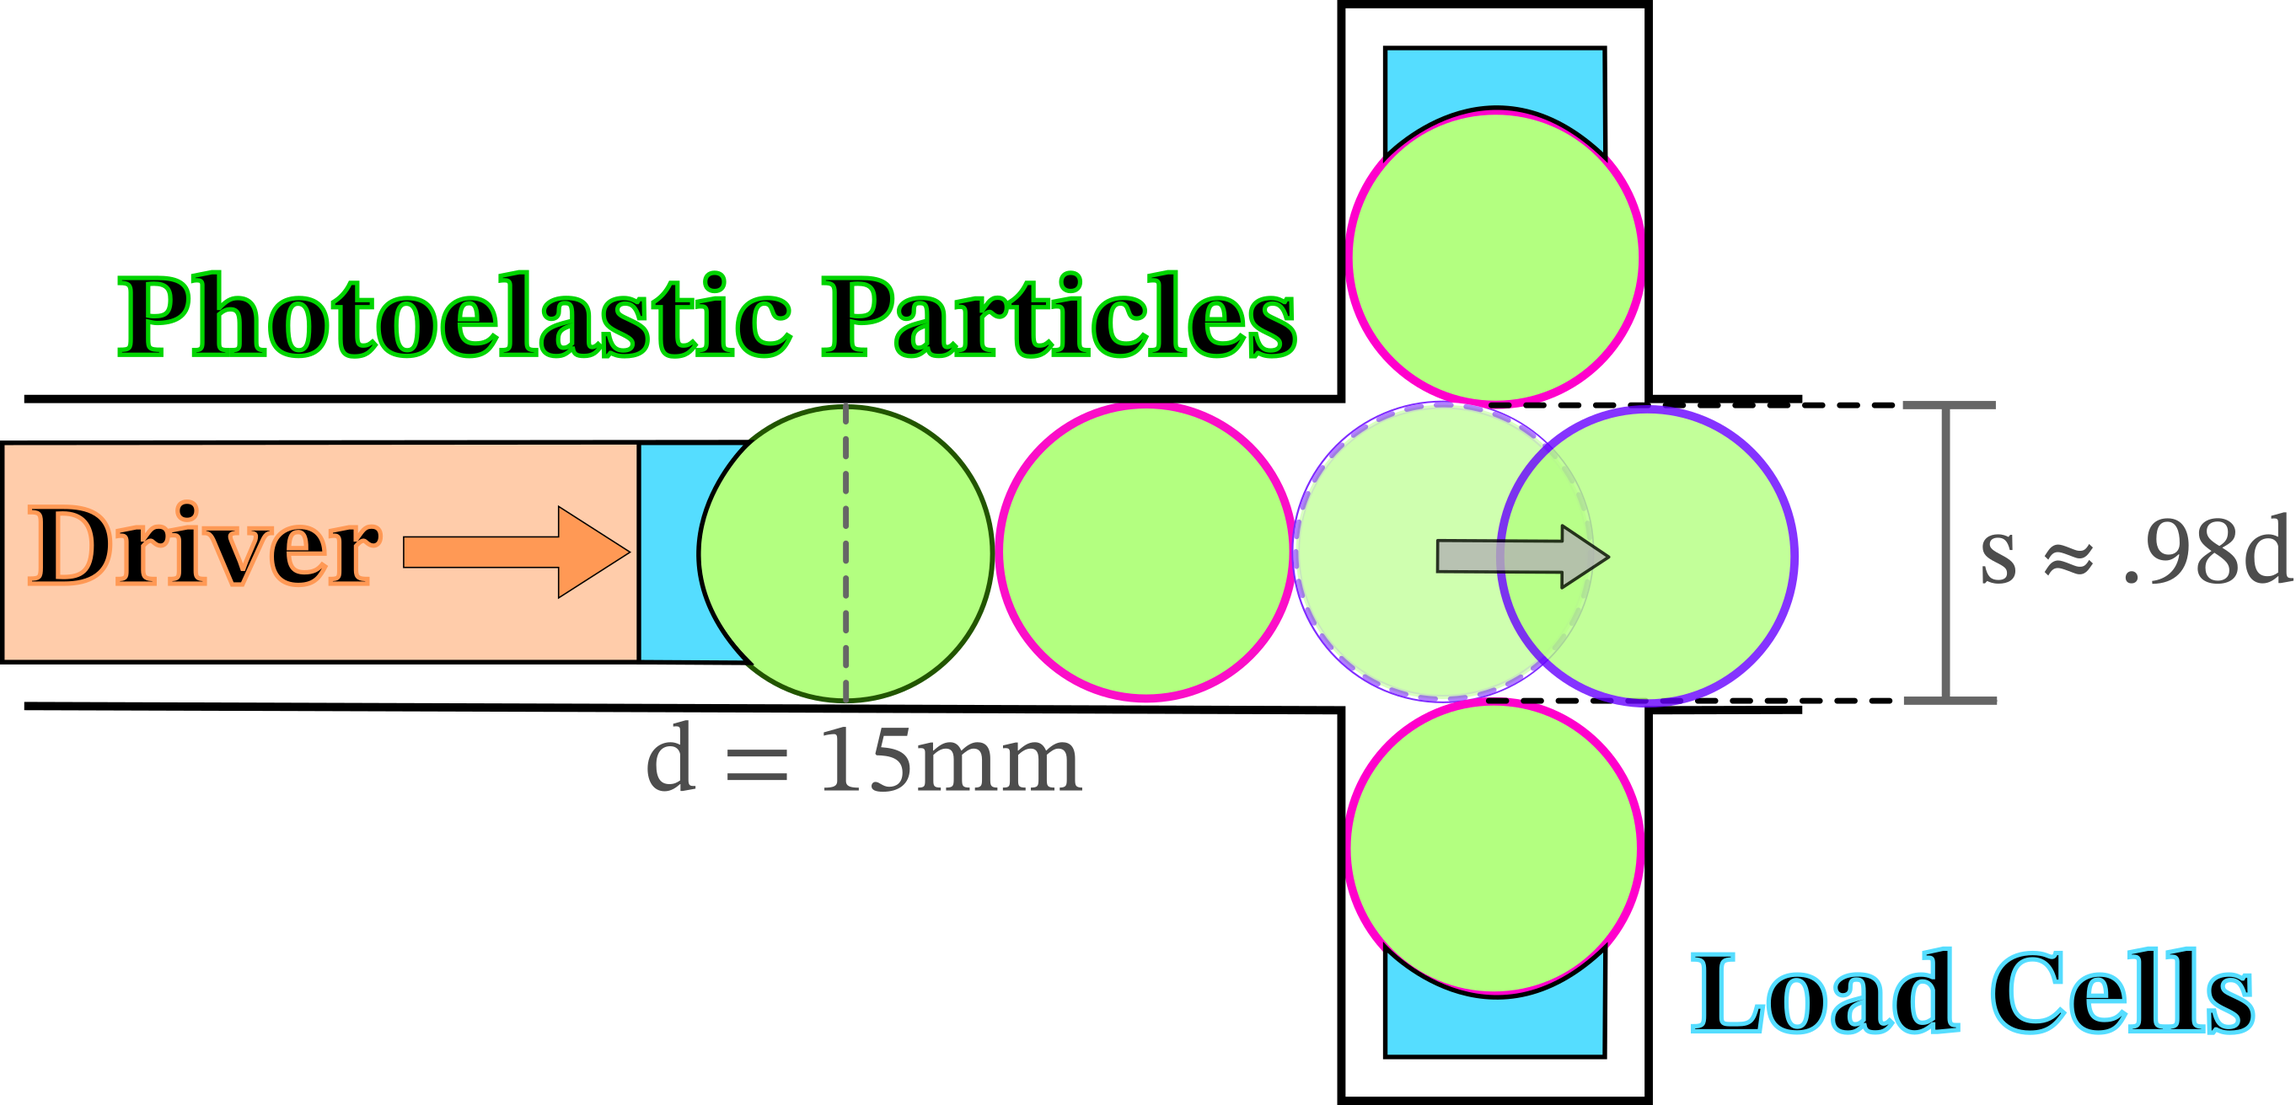
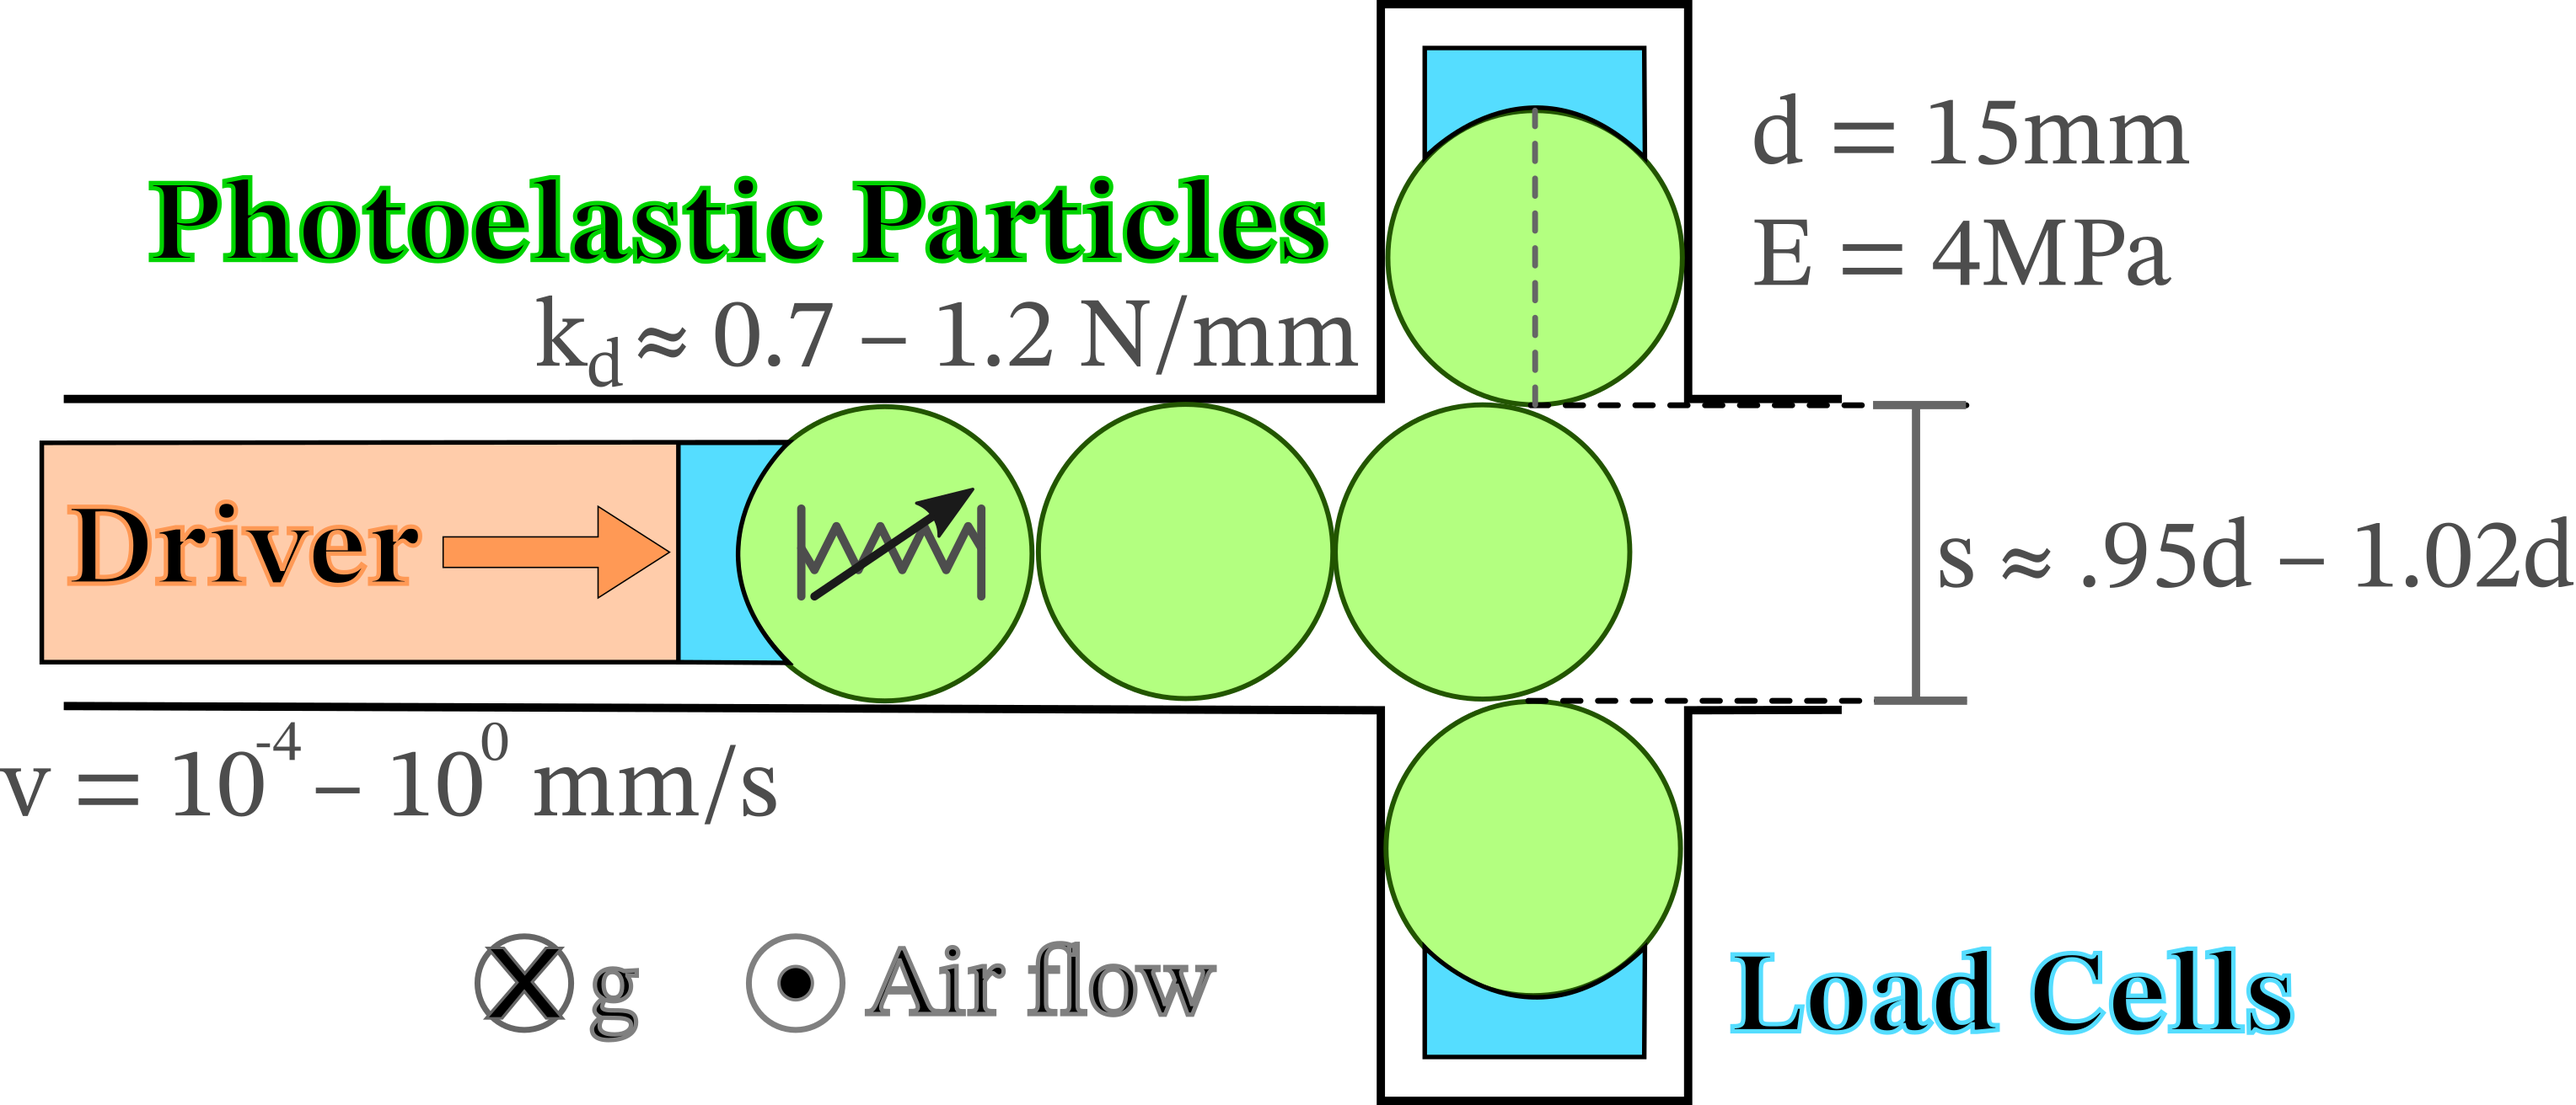
Updated poster page

diff --git a/SPF.html b/SPF.html
@@ -30,14 +30,14 @@ li:not(:last-child) {margin-bottom: 2%;}
 <!-- Header -->
 <header class="w3-container w3-pale-blue w3-center" style="padding:96px 16px">
   <p class="w3-xlarge">Howdy! We're investigating</p>
-  <h1 class="w3-margin w3-jumbo">Friction and Failure<h1>
+  <h1 class="w3-margin w3-jumbo">Local Friction and Failure<h1>
 </header>
 
 <div class="w3-row-padding w3-container">
   <div class="w3-content w3-center">
-      <h5 class="w3-padding-8">Jack Featherstone and Karen Daniels</h5>
+      <h5 class="w3-padding-8">Jack Featherstone (<a href="mailto:jdfeathe@ncsu.edu">jdfeathe@ncsu.edu</a>) and Karen Daniels</h5>
       <h5 class="w3-padding-8">Department of Physics, NC State University</h5>
-      <h5 class="w3-padding-16">Triangle Soft Matter Workshop 2022, Duke University</h5>
+      <h5 class="w3-padding-16">Granular Matter 2022, Stonehill College</h5>
   </div>
 </div>
 
@@ -45,7 +45,7 @@ li:not(:last-child) {margin-bottom: 2%;}
   <div class="w3-content w3-large w3-center">
     <h1>Motivation</h1>
 
-    <p class="w3-padding-16">Granular materials comprise a large group of systems that are made of lots of individual, athermal grains. Their dynamics are strongly influenced by dissipative particle-particle interactions, of which friction is a very important example.</p>
+    <p class="w3-padding-16">Granular packings are strongly influenced by dissipative particle-particle interactions, of which friction is a very important example.</p>
 
     <div class="w3-content w3-center" style="max-width: 400px">
         <img src="images/squeezing_particles_0.png" width=80% height=auto>
@@ -102,6 +102,8 @@ li:not(:last-child) {margin-bottom: 2%;}
             <img src="images/channel_exp.png" width=90% height=auto>
         </div>
 
+        <p>We can readily vary the width of the gap, the speed of the driver, and the stiffness of the driving mechanism.</p>
+
         <p>This experiment sits on an air table, which minimizes the effects of basal friction by floating the particles just above the bottom panel.</p>
 
         <div class="w3-content w3-center w3-padding-16" style="max-width: 800px">
@@ -118,7 +120,7 @@ li:not(:last-child) {margin-bottom: 2%;}
             <img src="images/pe_response.png" width=80% height=auto>
         </div>
 
-        <p>We also track the linear and rotational positions of the particles using convolutional techniques, which allows us to calculate linear and angular velocities throughout the rearrangement event.</p> 
+        <p>We also track the linear and rotational positions of the particles using convolutional techniques, which allows us to calculate linear and angular velocities, as well as particle deformations, throughout the rearrangement event.</p> 
 
         <p class="w3-center w3-padding-16">For more information about all of these methods, check out "The Analysis".</p>
 
@@ -129,21 +131,35 @@ li:not(:last-child) {margin-bottom: 2%;}
     <div class="w3-content w3-center w3-large">
         <h1 class="w3-center">The Analysis</h1>
 
-        <p>When describing our granular system, there are three fundamental things we want to know:</p>
+        <p>When describing our granular system, there are four fundamental things we want to know:</p>
 
         <ol>
             <li>How are the particles moving?</li>
+            <li>How are the particles deforming?</li>
             <li>How are the particles rotating?</li>
             <li>What forces are acting on the particles?</li>
         </ol>
 
-        <p>We can source all three of these descriptors from images taken of our system; we'll go through how we understand and quantify each one in the sections below!</p>
+        <p>We can source all four of these descriptors from images taken of our system; we'll go through how we understand and quantify each one in the sections below!</p>
 
         <h3 class="w3-left-align w3-padding-16">Linear Motion</h3>
 
         <p>To understand how a particle is moving, we need to know where the particle is located at any given time. We choose our particles to be circles (or rather, disks) which makes it very easy to track their centers as the system evolves.</p>
 
         <p>We use a convolutional tracking technique<sup>5</sup>, which quantifies how likely it is that a circle is centered at each point. This works extraordinarily well, no doubt in part due to the fact that we use very high resolution images, to the point that we can track the particles even to sub-pixel accuracy!</p>
+
+
+        <h3 class="w3-left-align w3-padding-16">Particle Compression</h3>
+
+        <p>Because we are performing experiments with soft particles (E = 4MPa), it is important to consider the amount of deformation occuring at each contact. This increases the surface area of the contact, and </p>
+
+        <p>Above, we used a convolutional technique to quantify how much the whole particle is moving; here, we care about how the edge of a particle is moving with respect to its center. To measure this compression, we use the convolution method again, except instead of measuring how likely it is that a particle center is located at each point, we measure how likely it is that a particle <i>edge</i> is located there.</p>
+
+        <p>The plot below measures the compression of the central particle during a trial run (lightly smoothed using windowed linear regression).</p>
+
+        <div class="w3-content w3-center w3-padding-16" style="max-width: 800px">
+            <img src="images/compression.png" width=95% height=auto>
+        </div>
 
 
         <h3 class="w3-left-align w3-padding-16">Rotational Motion</h3>
@@ -197,35 +213,38 @@ li:not(:last-child) {margin-bottom: 2%;}
     <div class="w3-content w3-center w3-large">
         <h1 class="w3-center">The Results</h1>
 
-        <p>Given our understanding of how our particles move (both linearly and rotationally) and what forces are acting on them, we now want to understand qualitatively what this means as our system evolves.</p>
+        <p>Given our understanding of how our particles move (both linearly and rotationally), how they deform, and what forces are acting on them, we now want to understand qualitatively what this means as our system evolves.</p>
 
-        <p>First and foremost, we see quite a bit of heterogeneity within our individual trials, each of which tend to roughly fit into a few different categories.</p>
+        <p>First, we compare the measured compressive (normal) force, as a function of the measured particle deformation to the value predicted by Hertzian contact theory. This predicted value was calculated for two identical, finite, parallel cylinders<sup>7</sup>
 
-        <p>The first type we enumerate is characterized by continuous, smooth motion of the central particle. We plot below the driving force on the central particle (ie. the force between the central particle and its hinder particle), the velocity of the central particle, and the rotational orientation of the central particle.</p>
-
-        <div class="w3-content w3-center w3-padding-16" style="max-width: 800px">
-            <img src="images/creep.png" width=90% height=auto>
+        <div class="w3-content w3-center w3-padding-16" style="max-width: 600px">
+            <img src="images/stress_strain.png" width=90% height=auto>
         </div>
 
-        <p>While there are minor fluctuations in all three curves, there is nothing that we would identify as a discrete slip event (taking into account the error bars, shown as the shaded regions on each plot). This trial demonstrates <i>creep</i> behavior<sup>7</sup>.
+        <p>We can see semi-quantitative agreement between the experimental results and the model predictions, which demonstrates the validity of our measurements, especially considering that the model prediction has no fitting parameters.</p>
 
-        <p>We can also examine the same quantities for a trial that demonstrates a discrete slip event (indicated by the dashed line), falling into the <i>stick-slip</i><sup>8</sup> category.</p>
+
+        <p>Now examining the tangential forces acting on the central particle, we observe that the gap size has a significant effect on how the particle moves. For larger gaps -- analagous to examining a macroscopic systems with a lower packing fraction -- the particle has to do less work to rearrange.</p>
+
+        <div class="w3-content w3-center w3-padding-16" style="max-width: 600px">
+            <img src="images/MHH_friction.png" width=90% height=auto>
+        </div>
+
+        <p>To better quantify this, we calculate the work required to push a single particle through this constrictive gap, both as a function of gap width and driving stiffness. On the plot below, filled points represent data that have been explicitly verified to be fully self-consistent.</p>
+
+        <div class="w3-content w3-center w3-padding-16" style="max-width: 600px">
+            <img src="images/work_separation.png" width=90% height=auto>
+        </div>
+
+        <p>For both driving configurations, we observe a decrease in this work with increasing gap size, which drops to approximately zero as the width becomes larger than a particle diameter.</p>
+
+        <p>To investigate how rolling and sliding friction play into this quantification, we zoom into the force, velocity, and rotational profile for each trial individually. The curves shown below are pretty typical of a single trial, though it is worth noting that discrete slip events (indicated by the blue dashed line) are not always present.</p>
 
         <div class="w3-content w3-center w3-padding-16" style="max-width: 800px">
             <img src="images/slip.png" width=90% height=auto>
         </div>
 
-        <p>We have quite a bit more to talk about here, since all three descriptors demonstrate some artifact around the time of slip. The drop in force is how we identify these slip events in the first place, as it indicates that the resistance the particle is facing has suddenly dropped. This is corroborated by the velocity profile, which shows a momentary increase in the speed of the particle as it slips, which intuitively makes sense.</p>
-
-        <p>The unintuitive -- and therefore, the most interesting -- artifact is the reflection of angular velocity at the slip point: the particle begins to rotate in the opposite direction to the previous rotational motion. We can show that this is a consistent effect by examining other trials that demonstrate slip events, like the one below, within which we can see the same three artifacts.</p>
-
-        <div class="w3-content w3-center w3-padding-16" style="max-width: 800px">
-            <img src="images/slip_2.png" width=90% height=auto>
-        </div>
-
-        <p>Because a circular object can only roll without slipping at (at most) a single contact at any given time, this reversal is an indication that a contact over which the central particle was previously rolling is now sliding, and another contact is now rolling. This slip represents the transition, at a specific contact, from rolling to sliding behavior, and the opposite transition for another contact.</p>
-
-        <p>We note that even when the particle is rolling, there is likely still some sliding behavior, but this suggests a veritable transition in the <i>dominant</i> mechanism of friction at a contact.</p>
+        <p>Generally, the particle continuously deforms to navigate the constrictive gap, while can (but is not always) punctuated by discrete slips. When a particle does slip, we consistently observe a reflection in the rotation, evidencing the interplay between rolling and sliding friction.</p>
 
         <p>For more information on the broader impacts of this work, as well as our next steps, check out "Beyond The Results".</p>
 
@@ -236,9 +255,9 @@ li:not(:last-child) {margin-bottom: 2%;}
     <div class="w3-content w3-center w3-large">
         <h1 class="w3-center">Beyond The Results</h1>
 
-        <p>Our motivation for performing this experiment is to better understand how local regions of a macroscopic system evolve, by creating a system for which we can access the particle-scale dynamics. We have done this in our quantification of the individual contact forces, linear velocity, and rotational motion.</p>
+        <p>Our motivation for performing this experiment is to better understand how local regions of a macroscopic system evolve, by creating a system for which we can access the particle-scale dynamics. We have done this in our quantification of the individual contact forces, particle compression, linear velocity, and rotational motion.</p>
 
-        <p>We then zoom back out to characterize how those microscopic measurements inform the macroscopic system dynamics, providing insight into how particles make use of both linear and rotational degrees of freedom to rearrange efficiently. In particular, we demonstrate the interplay between two mechanisms of friction by showing when sliding friction overtakes rolling friction (and vice versa) as the dominant dissipative contribution at a given contact.</p>
+        <p>We then zoom back out to characterize how those microscopic measurements inform the macroscopic system dynamics, providing insight into how particles make use of linear, rotational, and elastic degrees of freedom to rearrange efficiently.</p>
 
         <p>This interplay of different mechanisms emphasizes the importance of going beyond a singly-inclusive model of friction when performing numerical simulations or modeling experimental systems.</p>
 
@@ -264,6 +283,7 @@ li:not(:last-child) {margin-bottom: 2%;}
         <li><a href="https://doi.org/10.1063/1.4983049">Daniels, K. E. et al. (2017). Photoelastic force measurements in granular materials. Review of Scientific Instruments, 88(5), 051808.</a></li>
         <li>Shattuck (2015). Handbook of Granular Materials. CRC Press</li>
         <li><a href="https://doi.org/10.1007/s10035-019-0942-2">Abed Zadeh et al. (2019). Enlightening force chains: A review of photoelasticimetry in granular matter. Granular Matter, 21(4), 83.</a></li>
+        <li>Johnson, K. L. (2003). Contact mechanics (9. print). Cambridge Univ. Press.</li>
         <li><a href="https://doi.org/10.1007/s10035-018-0863-5">Andò, E., Dijkstra, J., Roubin, E., Dano, C., & Boller, E. (2019). A peek into the origin of creep in sand. Granular Matter, 21(1), 11.</a></li>
         <li><a href="https://doi.org/10.1103/PhysRevE.58.2161">Nasuno, S., Kudrolli, A., Bak, A., & Gollub, J. P. (1998). Time-resolved studies of stick-slip friction in sheared granular layers. Physical Review E, 58(2), 2161–2171.</a></li>
 
